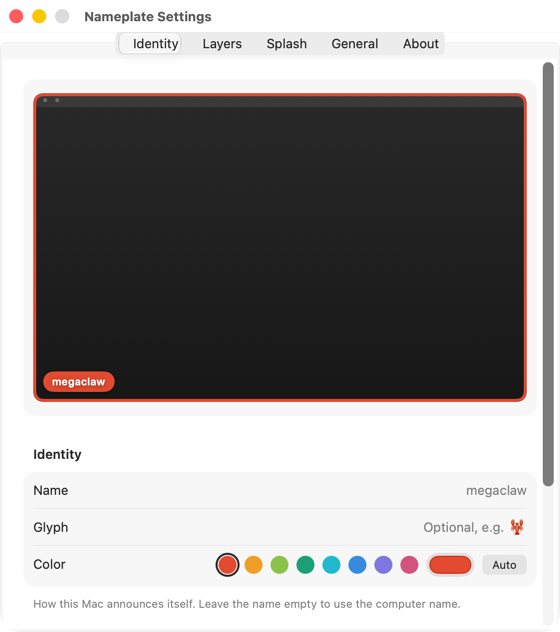
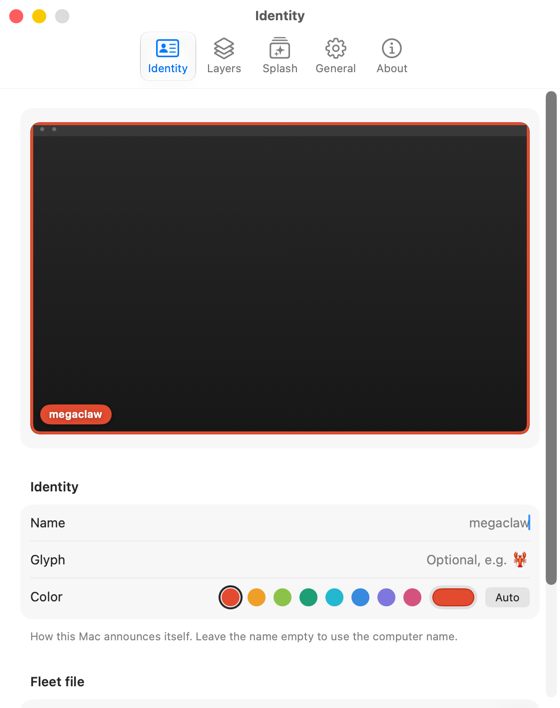
feat: native toolbar-tab settings window
Replace the in-content SwiftUI TabView with NSTabViewController's toolbar
tab style — icons in the title bar, per-pane window title and sizing, the
System Settings look. Panes are sized so Layers/Splash/General/About fit
without scrolling.

Changed region(s): [[0.0304, 0.0, 1.0, 0.9921], [0.0607, 0.0, 0.0911, 0.0601]]

diff --git a/Sources/Nameplate/SettingsWindowController.swift b/Sources/Nameplate/SettingsWindowController.swift
@@ -1,15 +1,18 @@
 import AppKit
 import SwiftUI
 
-/// Manually managed settings window. The SwiftUI `Settings` scene is
-/// unreliable for menu-bar-only apps (it silently fails to open on current
-/// macOS builds), so we own the window ourselves — which also gives us
-/// activation and reuse for free.
+/// Native settings window: NSTabViewController with toolbar-style tabs (the
+/// System Settings look — icons in the title bar, window resizes per pane).
+/// The SwiftUI `Settings` scene is unreliable for menu-bar-only apps on
+/// current macOS builds, so we own the window ourselves.
 @MainActor
 final class SettingsWindowController {
     private var window: NSWindow?
+    private var tabController: NSTabViewController?
     private let settings: AppSettings
     private weak var services: AppServices?
+
+    private static let paneWidth: CGFloat = 560
 
     init(settings: AppSettings, services: AppServices) {
         self.settings = settings
@@ -18,30 +21,56 @@ final class SettingsWindowController {
 
     func show(tab: SettingsTab? = nil) {
         if self.window == nil {
-            self.window = self.makeWindow()
+            self.makeWindow()
         }
         NSApp.activate(ignoringOtherApps: true)
         self.window?.makeKeyAndOrderFront(nil)
-        if let tab {
-            // Post on the next turn so a freshly created view is subscribed.
-            DispatchQueue.main.async {
-                NotificationCenter.default.post(name: .nameplateSelectSettingsTab, object: tab)
-            }
+        if let tab, let index = SettingsTab.allCases.firstIndex(of: tab) {
+            self.tabController?.selectedTabViewItemIndex = index
         }
     }
 
-    private func makeWindow() -> NSWindow {
+    private func makeWindow() {
         guard let services = self.services else {
             fatalError("SettingsWindowController outlived AppServices")
         }
-        let hosting = NSHostingController(
-            rootView: SettingsView(settings: self.settings, services: services))
-        let window = NSWindow(contentViewController: hosting)
-        window.title = "Nameplate Settings"
+        let settings = self.settings
+
+        let tabs = NSTabViewController()
+        tabs.tabStyle = .toolbar
+
+        func addPane(_ tab: SettingsTab, symbol: String, height: CGFloat, view: some View) {
+            let hosting = NSHostingController(rootView: view)
+            hosting.title = tab.label
+            hosting.preferredContentSize = NSSize(width: Self.paneWidth, height: height)
+            let item = NSTabViewItem(viewController: hosting)
+            item.label = tab.label
+            item.image = NSImage(systemSymbolName: symbol, accessibilityDescription: tab.label)
+            tabs.addTabViewItem(item)
+        }
+
+        addPane(
+            .identity, symbol: "person.text.rectangle", height: 620,
+            view: IdentitySettingsPane(settings: settings))
+        addPane(
+            .layers, symbol: "square.3.layers.3d", height: 680,
+            view: LayersSettingsPane(settings: settings))
+        addPane(
+            .splash, symbol: "sparkles.rectangle.stack", height: 560,
+            view: SplashSettingsPane(settings: settings, services: services))
+        addPane(
+            .general, symbol: "gearshape", height: 470,
+            view: GeneralSettingsPane(settings: settings))
+        addPane(
+            .about, symbol: "info.circle", height: 480,
+            view: AboutPane(settings: settings, updater: services.updater))
+
+        let window = NSWindow(contentViewController: tabs)
         window.styleMask = [.titled, .closable, .miniaturizable]
+        window.toolbarStyle = .preference
         window.isReleasedWhenClosed = false
-        window.setContentSize(NSSize(width: SettingsView.windowWidth, height: SettingsView.windowHeight))
         window.center()
-        return window
+        self.tabController = tabs
+        self.window = window
     }
 }

diff --git a/Sources/Nameplate/SettingsView.swift b/Sources/Nameplate/SettingsView.swift
@@ -1,47 +1,17 @@
 import SwiftUI
 
-enum SettingsTab: String, Hashable {
+enum SettingsTab: String, Hashable, CaseIterable {
     case identity, layers, splash, general, about
-}
 
-@MainActor
-struct SettingsView: View {
-    @ObservedObject var settings: AppSettings
-    let services: AppServices
-    @State private var selectedTab: SettingsTab = .identity
-
-    var body: some View {
-        TabView(selection: self.$selectedTab) {
-            IdentitySettingsPane(settings: self.settings)
-                .tabItem { Label("Identity", systemImage: "person.text.rectangle") }
-                .tag(SettingsTab.identity)
-
-            LayersSettingsPane(settings: self.settings)
-                .tabItem { Label("Layers", systemImage: "square.3.layers.3d") }
-                .tag(SettingsTab.layers)
-
-            SplashSettingsPane(settings: self.settings, services: self.services)
-                .tabItem { Label("Splash", systemImage: "sparkles.rectangle.stack") }
-                .tag(SettingsTab.splash)
-
-            GeneralSettingsPane(settings: self.settings)
-                .tabItem { Label("General", systemImage: "gearshape") }
-                .tag(SettingsTab.general)
-
-            AboutPane(settings: self.settings, updater: self.services.updater)
-                .tabItem { Label("About", systemImage: "info.circle") }
-                .tag(SettingsTab.about)
-        }
-        .frame(width: Self.windowWidth, height: Self.windowHeight, alignment: .topLeading)
-        .frame(maxWidth: .infinity, maxHeight: .infinity, alignment: .topLeading)
-        .onReceive(NotificationCenter.default.publisher(for: .nameplateSelectSettingsTab)) { notification in
-            guard let tab = notification.object as? SettingsTab else { return }
-            self.selectedTab = tab
+    var label: String {
+        switch self {
+        case .identity: "Identity"
+        case .layers: "Layers"
+        case .splash: "Splash"
+        case .general: "General"
+        case .about: "About"
         }
     }
-
-    static let windowWidth: CGFloat = 560
-    static let windowHeight: CGFloat = 600
 }
 
 extension Notification.Name {

diff --git a/Sources/Nameplate/SettingsAboutPane.swift b/Sources/Nameplate/SettingsAboutPane.swift
@@ -36,10 +36,8 @@ struct AboutPane: View {
                     Toggle(
                         "Automatically download and install updates",
                         isOn: self.autoUpdateBinding)
-                    LabeledContent("Updates") {
-                        Button("Check for Updates…") {
-                            self.updater?.checkForUpdates(nil)
-                        }
+                    Button("Check for Updates…") {
+                        self.updater?.checkForUpdates(nil)
                     }
                 } else {
                     Text(self.updater?.unavailableReason ?? "Updates unavailable in this build.")